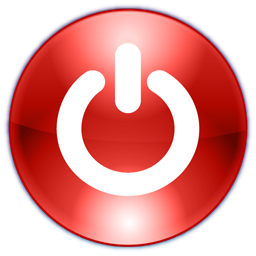
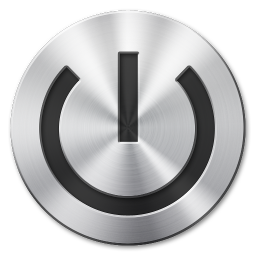
More work on mainmenu theme

diff --git a/epymc/mainmenu.py b/epymc/mainmenu.py
@@ -62,7 +62,7 @@ def item_add(name, weight, label, icon, callback, subitems=[]):
 
    img = gui.load_image(icon)
 
-   sublist = List(_list, focus_allow=False, style='mainmenu')
+   sublist = List(_list, focus_allow=False, style='mainmenu_sublist')
    for _label, _icon, _url in subitems:
       si = sublist.item_append(_label, gui.load_icon(_icon) if _icon else None)
       si.data['url'] = _url
